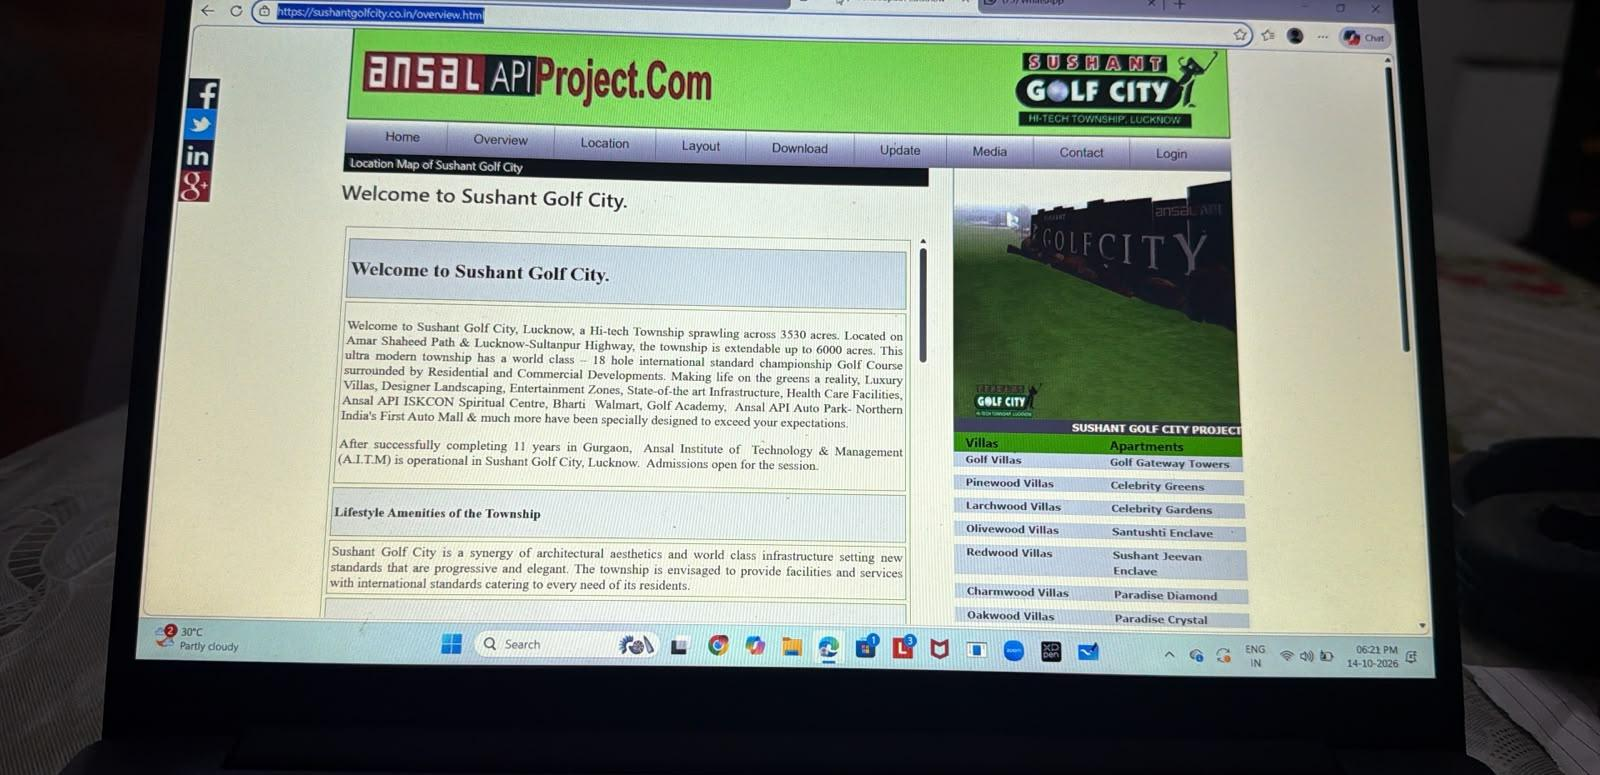
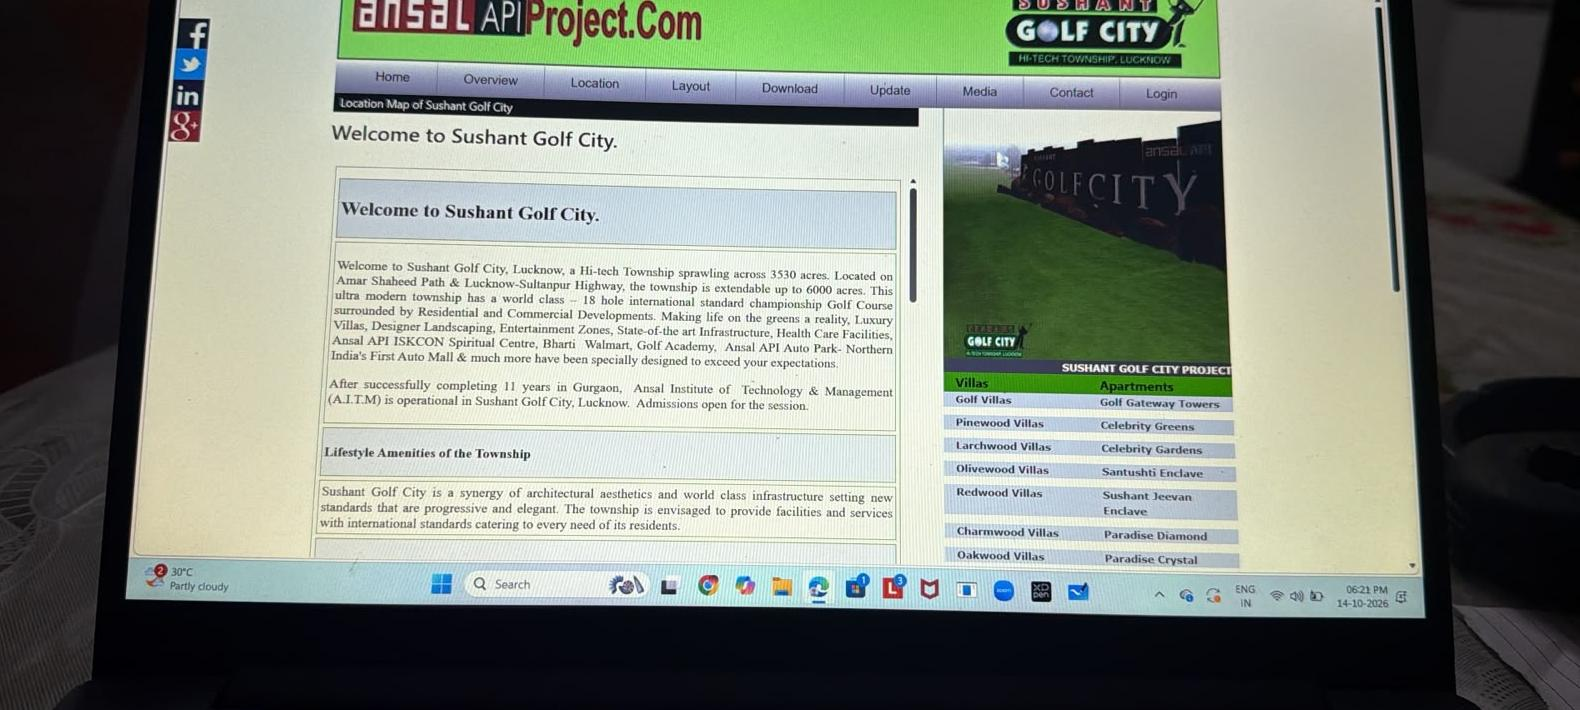
fix: keep location maps only where officially published on developer link

diff --git a/src/data/projects.ts b/src/data/projects.ts
@@ -435,12 +435,6 @@ export const PROJECTS: Project[] = [
         alt: "Rishita Serenity 4 BHK + SQ-Large Floor Plan 3452 sqft",
       },
     ],
-    locationMapImage: {
-      url: "/assets/projects/rishita-developers/rishita-serenity/location-map.png",
-      alt: "Rishita Serenity master site layout and location map in Sushant Golf City",
-      caption: "Official Master Layout & Location Plan",
-      isIllustrative: false,
-    },
     sourceUrls: ["https://rishitaserenity.co.in/", "https://www.up-rera.in/"],
     lastVerified: "2026-10-18",
   },
@@ -656,12 +650,6 @@ export const PROJECTS: Project[] = [
       caption: "Township Master Plan Layout",
       isIllustrative: false,
     },
-    locationMapImage: {
-      url: "/assets/projects/omaxe/omaxe-metro-city/location-map.jpg",
-      alt: "Omaxe Metro City layout and location map on Raebareli Road",
-      caption: "Official Township Location & Sector Map",
-      isIllustrative: false,
-    },
     sourceUrls: [
       "https://www.omaxelucknow.com/property/omaxe-metro-city-lucknow",
       "https://www.up-rera.in/",
@@ -745,12 +733,6 @@ export const PROJECTS: Project[] = [
         isIllustrative: false,
       },
     ],
-    locationMapImage: {
-      url: "/assets/projects/omaxe/omaxe-betogether/gallery-1.jpg",
-      alt: "Omaxe BeTogether prime Lucknow commercial locations map and layout",
-      caption: "Strategic Multi-Location Commercial Layout",
-      isIllustrative: false,
-    },
     sourceUrls: ["https://www.omaxebetogether.co/", "https://www.up-rera.in/"],
     lastVerified: "2026-10-18",
   },
@@ -937,12 +919,6 @@ export const PROJECTS: Project[] = [
         isIllustrative: false,
       },
     ],
-    locationMapImage: {
-      url: "/assets/projects/emaar-india/gomti-greens-plots/location-map.jpg",
-      alt: "Emaar Gomti Greens location map and satellite layout in Gomti Nagar Extension",
-      caption: "Official Location Map & Satellite Connectivity",
-      isIllustrative: false,
-    },
     sourceUrls: [
       "https://in.emaar.com/en/properties/gomti-greens-plots/",
       "https://www.up-rera.in/",
